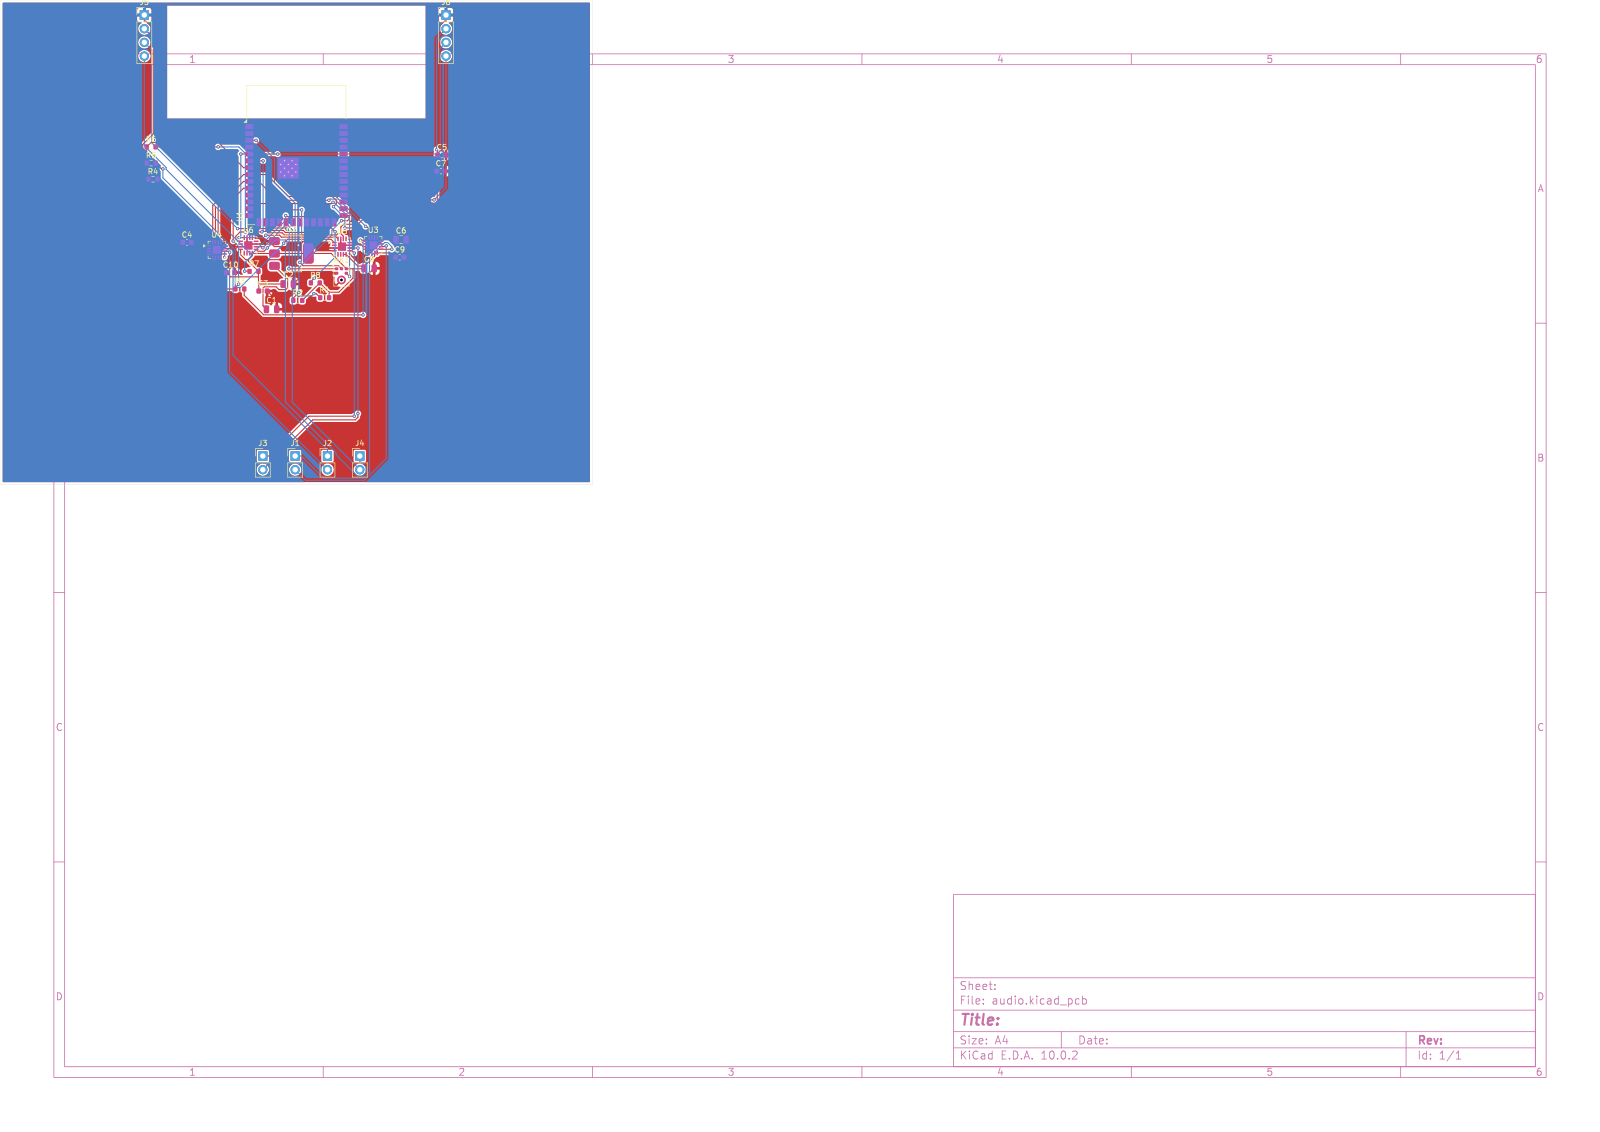
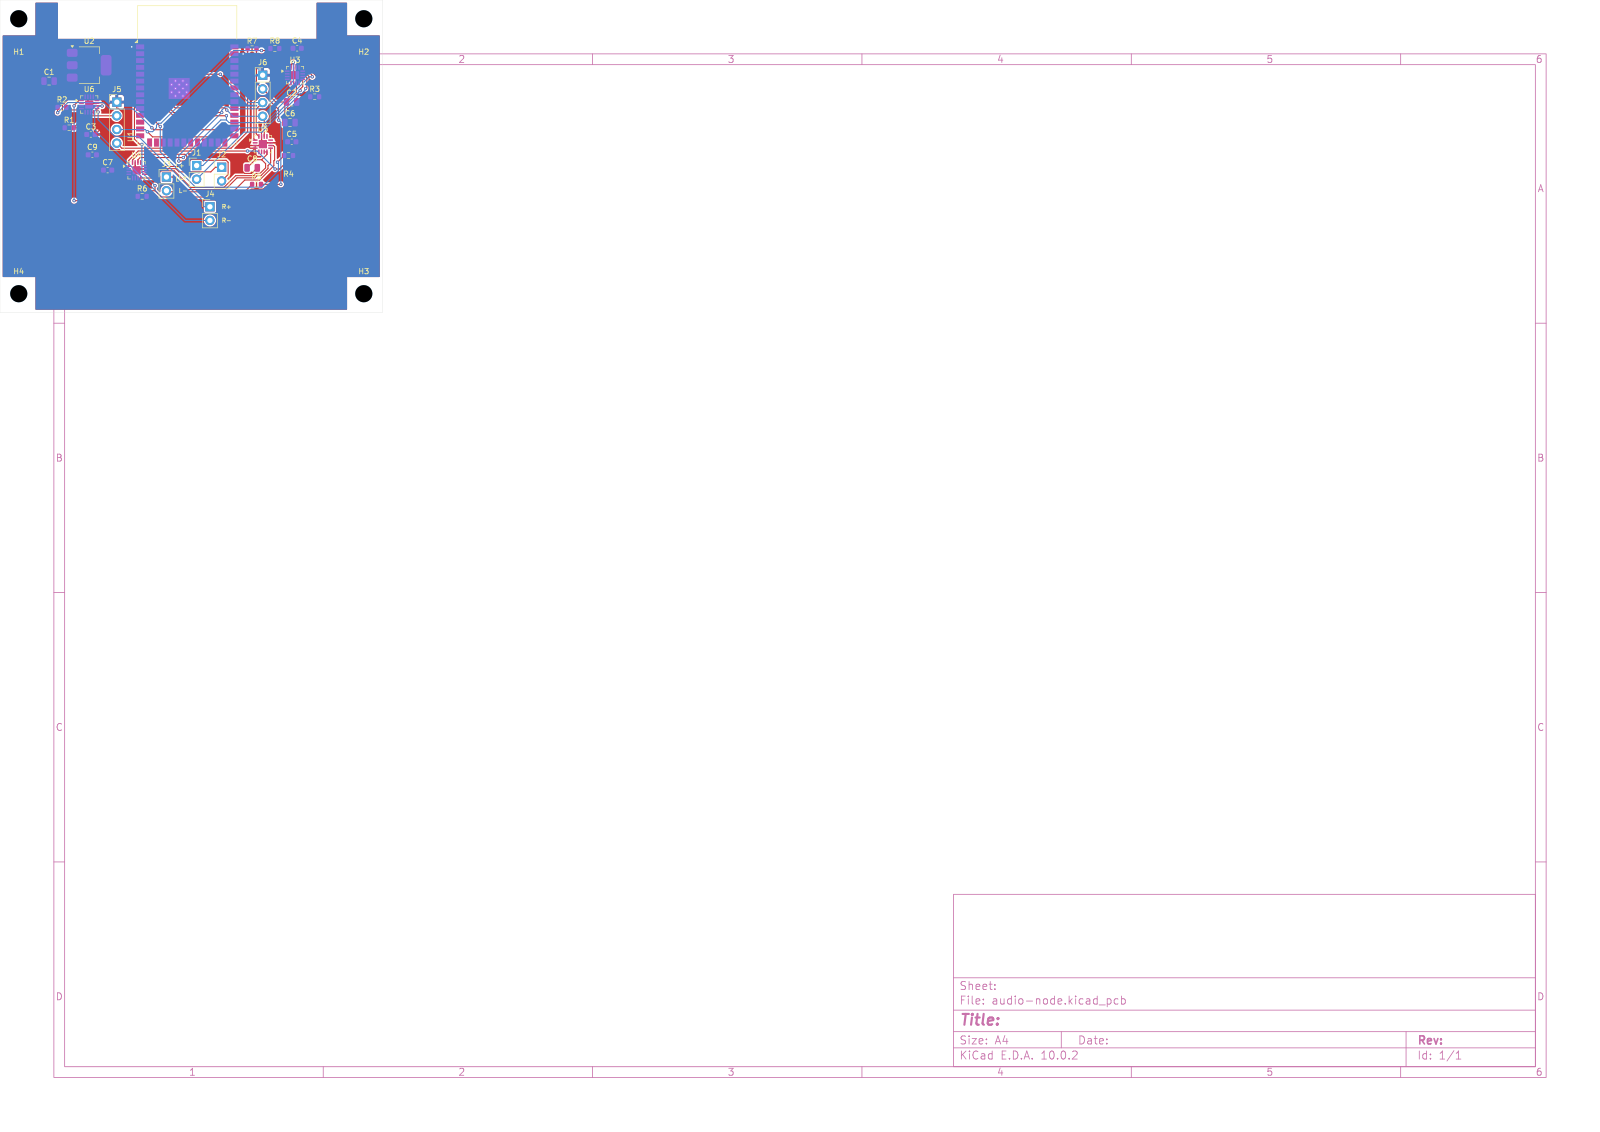
docs(examples): regenerate audio-node images with current kicad-mcp
Fresh generation from firmware config: 71×58mm 2-layer board,
29 components, 415 traces, 28 vias.

Changed region(s): [[0.0, 0.0, 0.375, 0.4329], [0.6562, 0.8657, 0.6875, 0.8966]]

diff --git a/docs/examples/audio-remote/README.md b/docs/examples/audio-remote/README.md
@@ -12,6 +12,6 @@
 
 ![PCB top](pcb-top.png)
 
-> **Board size:** 110 × 90 mm  
+> **Board size:** 71 × 58 mm  
 > **Layer count:** 2  
-> **Components:** 31
+> **Components:** 29
